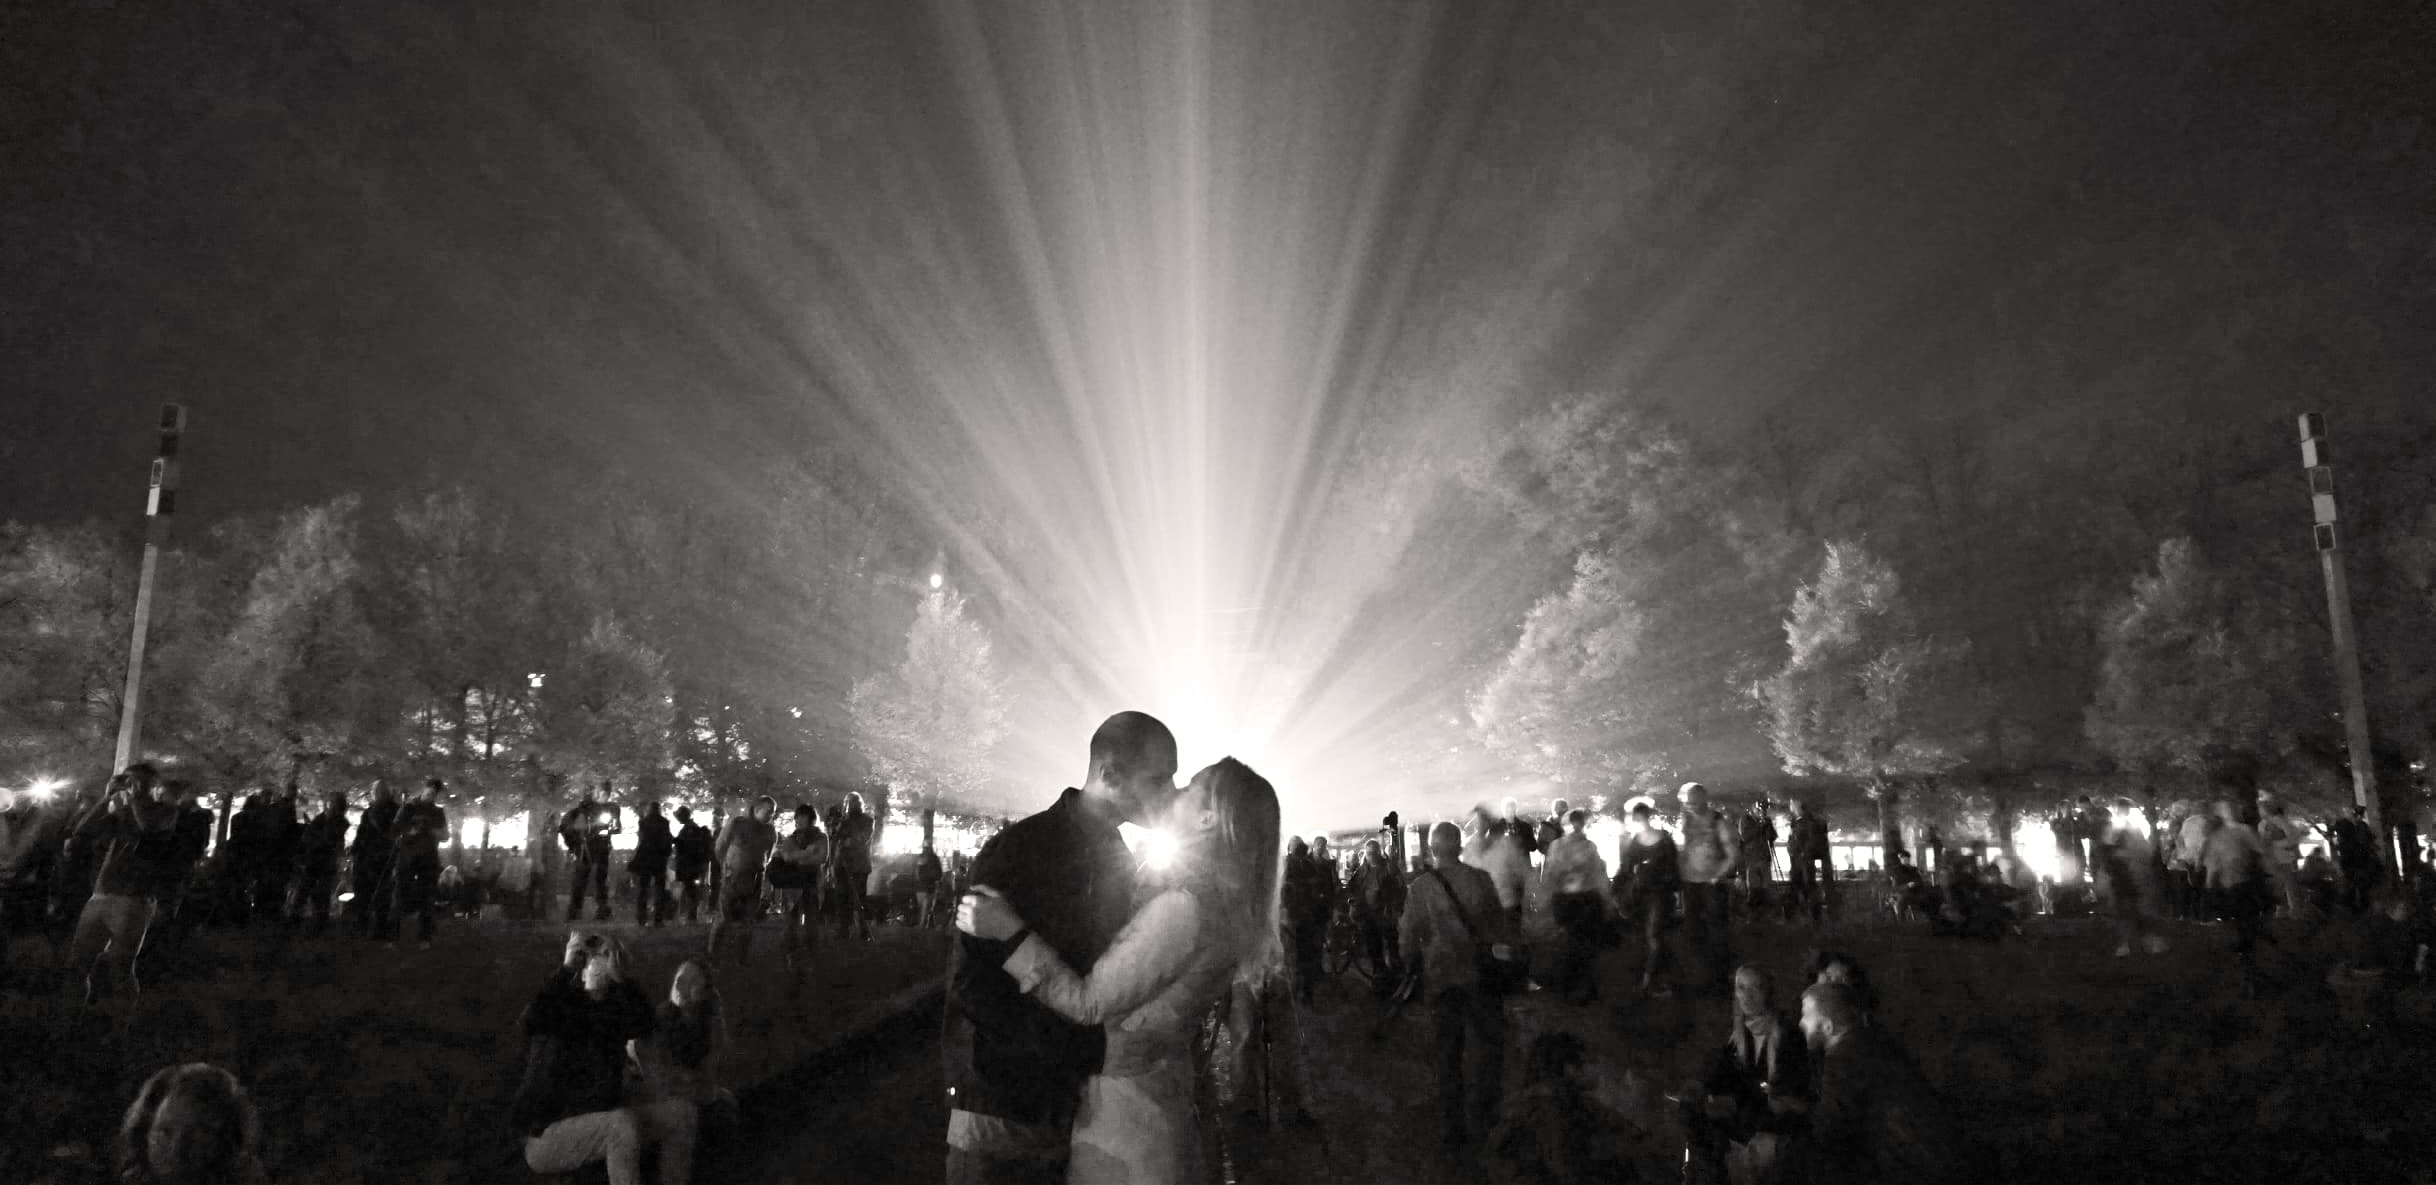
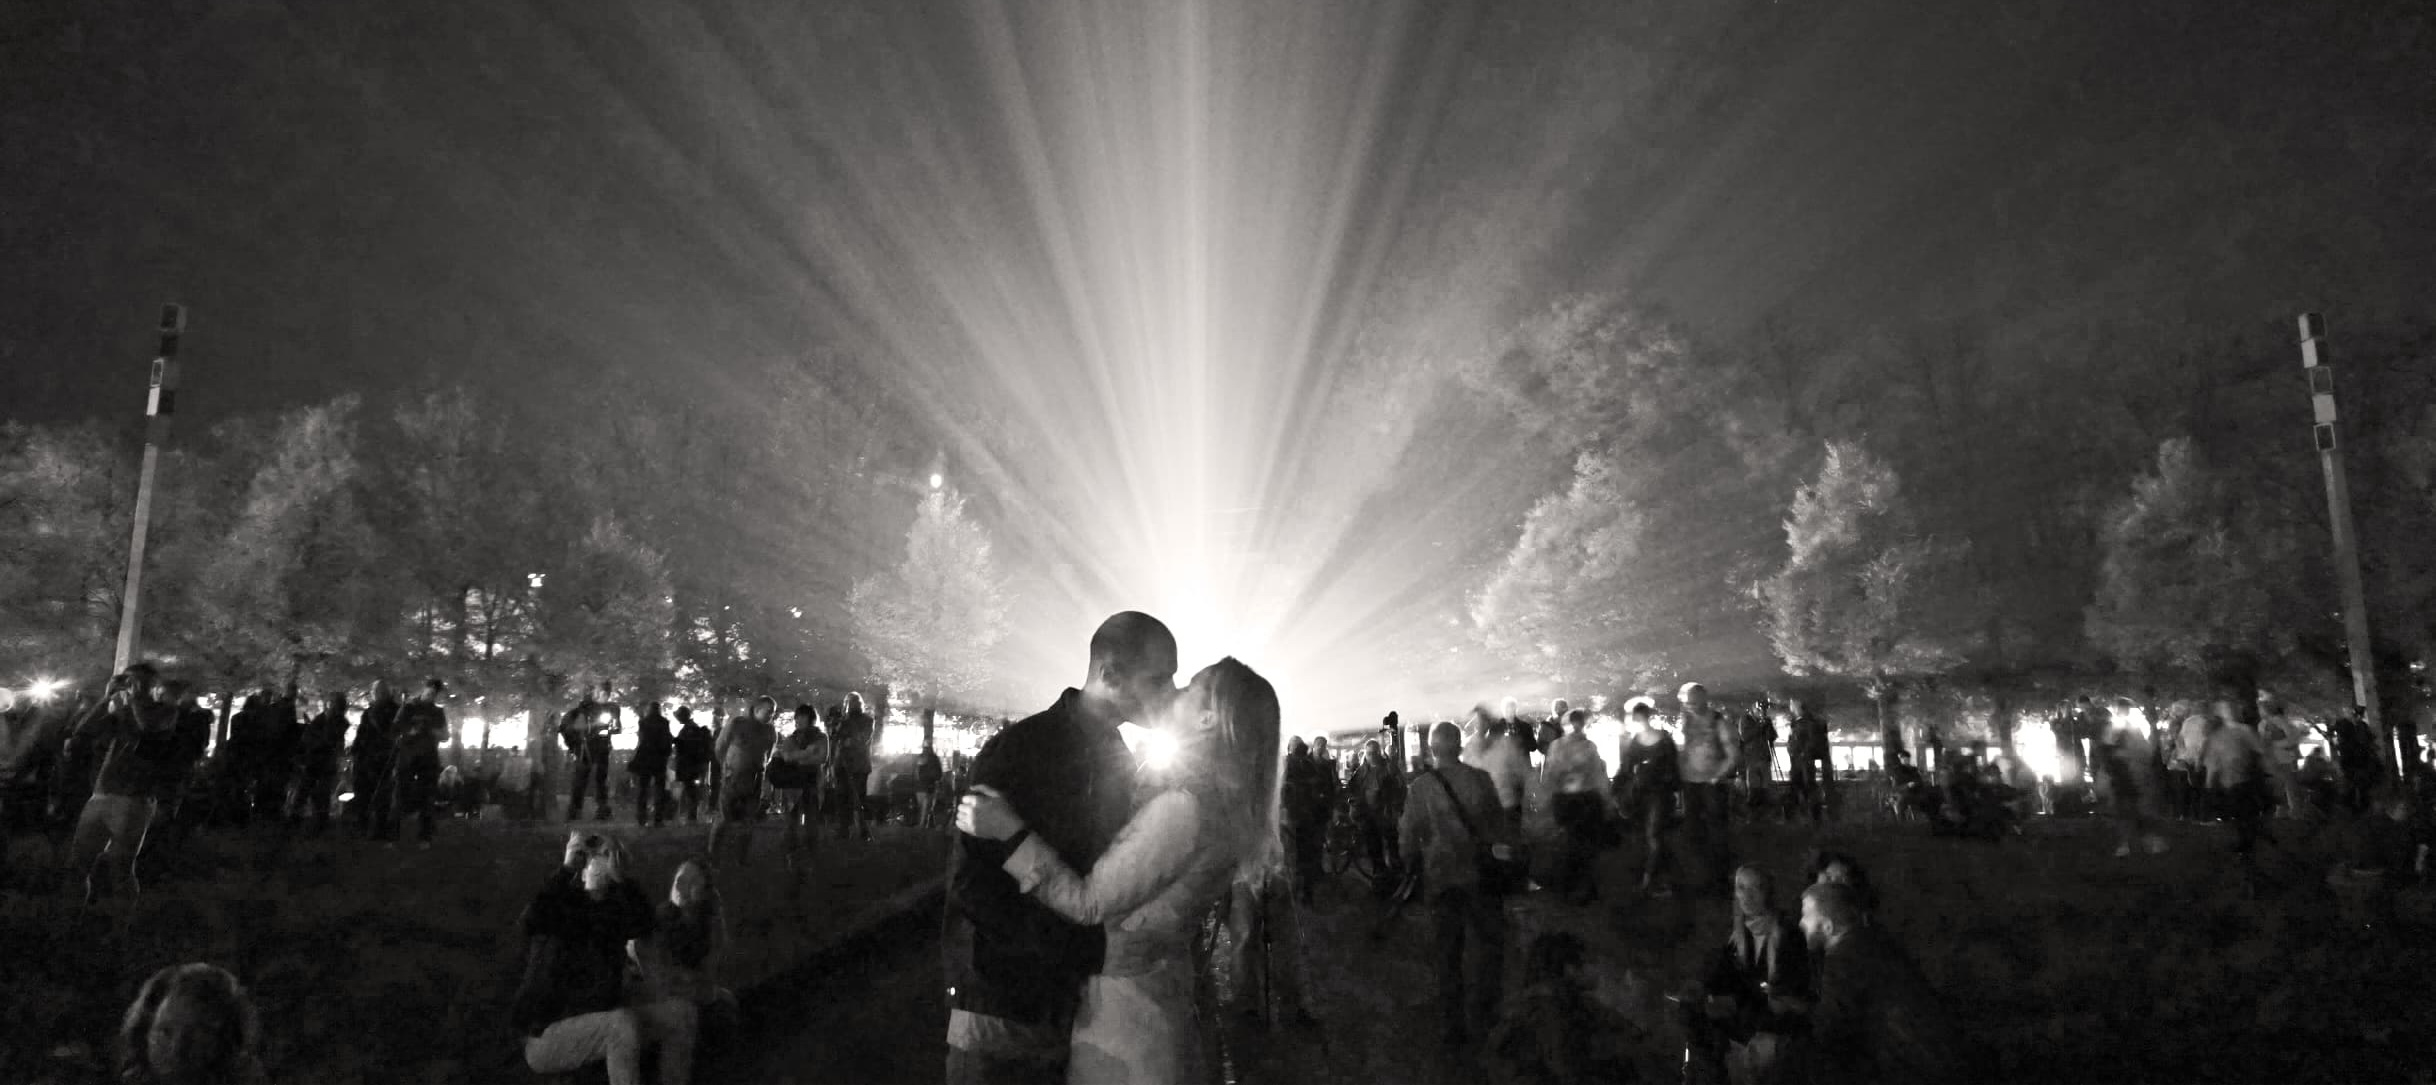
update photos & spacing

diff --git a/src/components/sections/ImageSection.tsx b/src/components/sections/ImageSection.tsx
@@ -17,7 +17,7 @@ export const ImageSection = ({
   const { isXSmallWidth } = useDeviceWidth();
   return (
     <div style={{ position: 'relative', backgroundColor: '#FBF9F6' }}>
-      <ParallaxBanner style={{ aspectRatio: 2.5 }}>
+      <ParallaxBanner style={{ aspectRatio: 3 }}>
         <ParallaxBannerLayer speed={isXSmallWidth ? -3 : -5}>
           <Image src={imageSrc} className={cx(imageClassName, styles.image)} />
         </ParallaxBannerLayer>
@@ -27,10 +27,21 @@ export const ImageSection = ({
 };
 
 export const DoubleImageSection = (): ReactElement => {
+  const { isXSmallWidth, isSmallWidth } = useDeviceWidth();
   return (
-    <Group className={styles.doubleImageContainer} gap={0}>
-      <Image src={nyeImage} className={styles.nyeImage} />
-      <Image src={creteImage} className={styles.creteImage} />
-    </Group>
+    <div style={{ position: 'relative', backgroundColor: '#FBF9F6' }}>
+      <ParallaxBanner style={{ aspectRatio: isSmallWidth ? 1.5 : 3 }}>
+        <ParallaxBannerLayer speed={isXSmallWidth ? -3 : -5}>
+          <Group className={styles.doubleImageContainer} gap={0}>
+            <div style={{ width: '40%' }}>
+              <Image src={nyeImage} className={styles.nyeImage} />
+            </div>
+            <div style={{ width: '60%' }}>
+              <Image src={creteImage} className={styles.creteImage} />
+            </div>
+          </Group>
+        </ParallaxBannerLayer>
+      </ParallaxBanner>
+    </div>
   );
 };

diff --git a/src/components/sections/OurStory.tsx b/src/components/sections/OurStory.tsx
@@ -64,9 +64,9 @@ export const OurStory = ({ scrollRef }: Props): ReactElement => {
             <br />
             There’s no comfort in the world like knowing that the person sitting
             next to you in life is looking out at the same horizon. When we gaze
-            at our life together, this wedding stands as the symbolic start of
-            the main act of this story, and if the prologue has been any
-            indication, it’s going to be an incredibly beautiful and Crasi life!
+            at our life together, this wedding represents the start of the main
+            act of this story, and if the prologue has been any indication, it’s
+            going to be an incredibly beautiful and Crasi life. ♡
           </Body>
         </Stack>
       </Center>

diff --git a/src/components/sections/ImageSection.module.scss b/src/components/sections/ImageSection.module.scss
@@ -11,17 +11,19 @@
 }
 
 .doubleImageContainer {
-  height: 600px;
+  max-height: 600px;
+  display: flex;
+  align-items: flex-end;
 }
 
 .nyeImage {
-  flex-grow: 4;
   height: 100%;
-  object-position: 50% 45%;
+  //object-fit: cover;
+  object-position: 50% 65%;
 }
 
 .creteImage {
-  flex-grow: 6;
   height: 100%;
+  //object-fit: cover;
   object-position: 50% 35%;
 }
